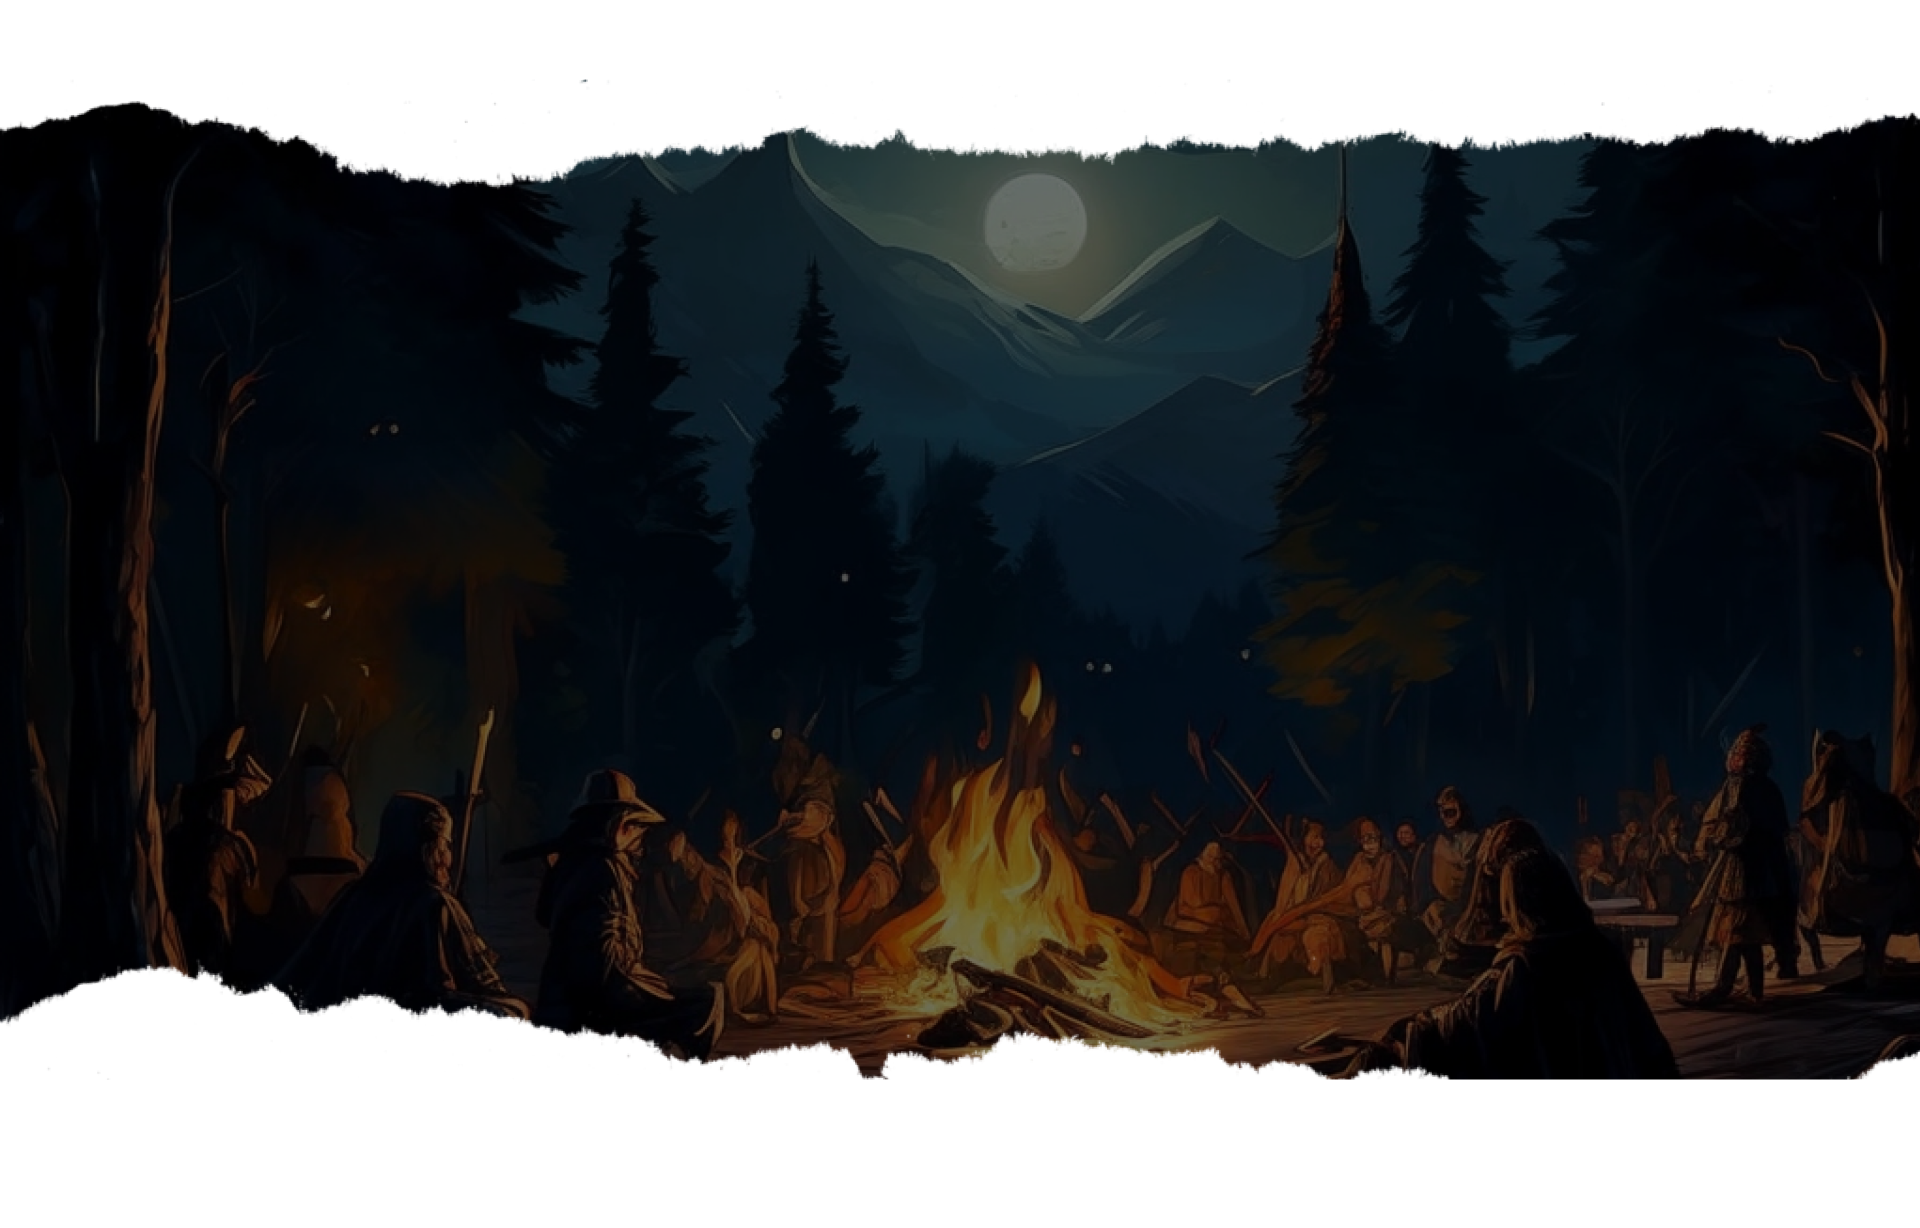
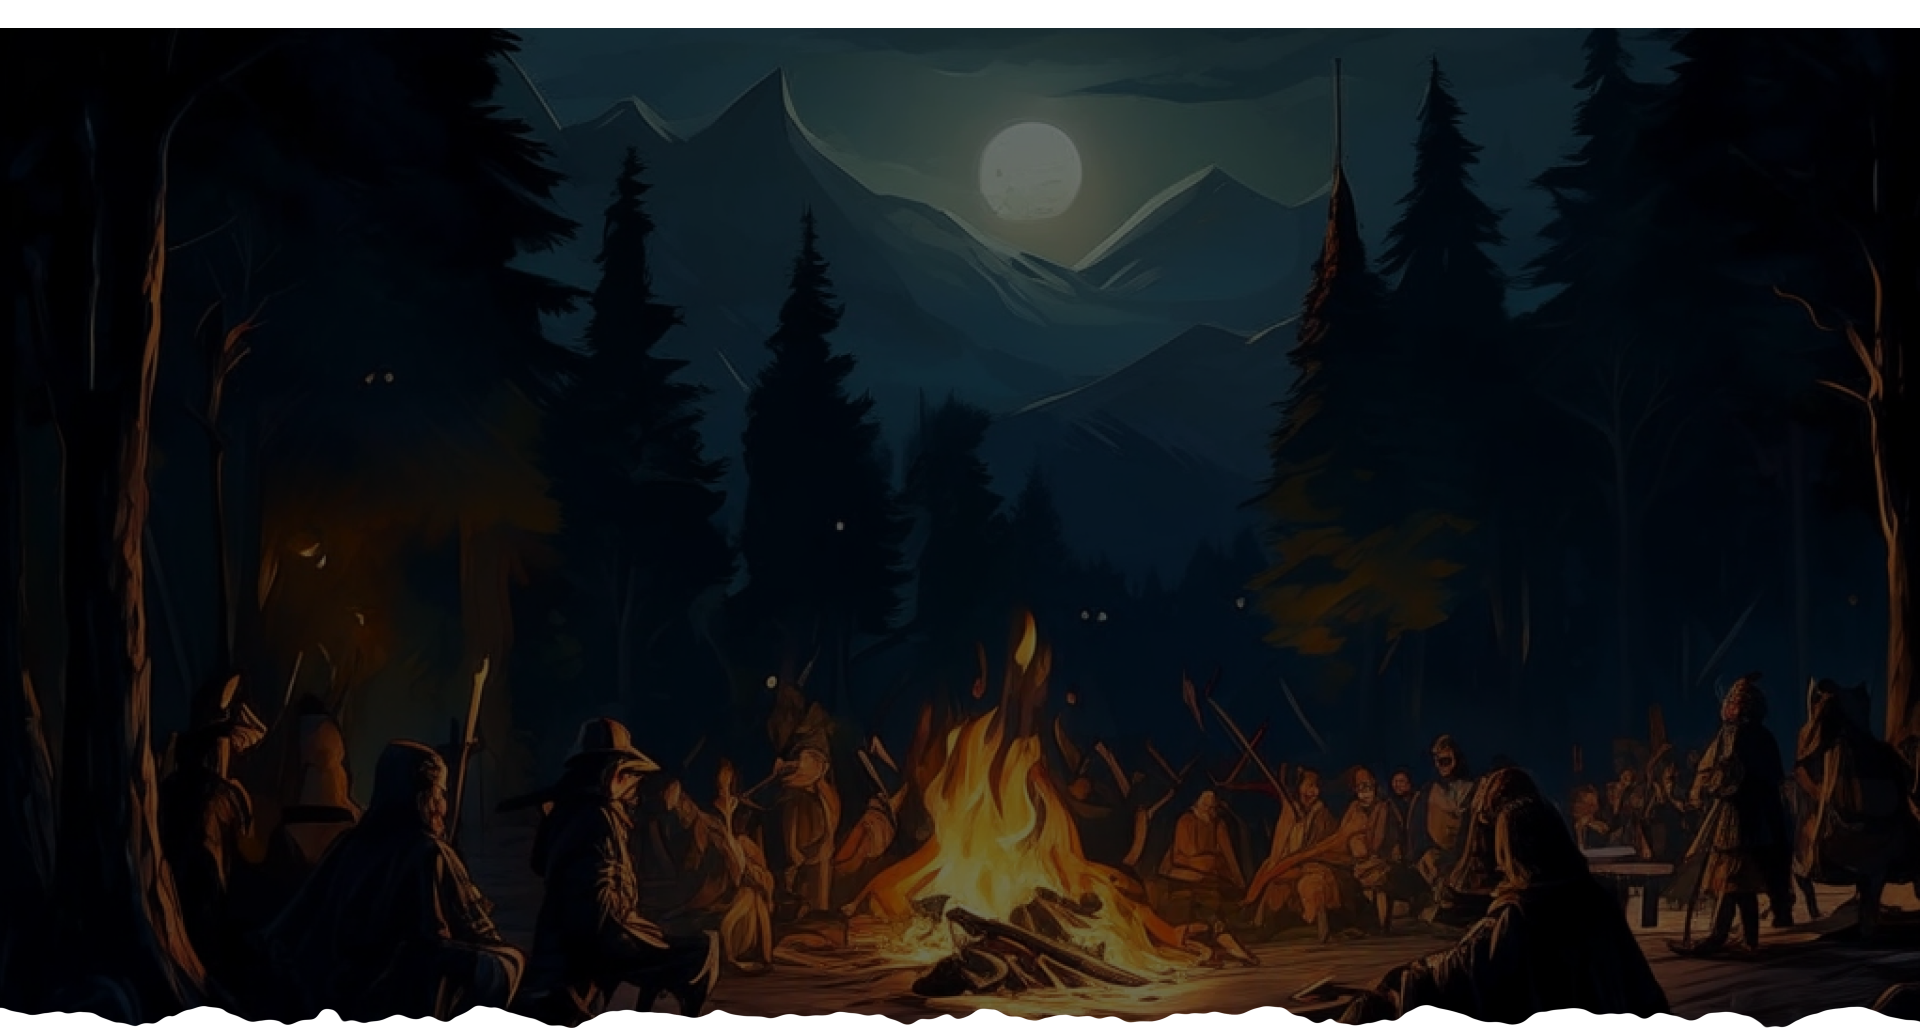
Если 2

diff --git a/src/pages/SchedulePage.tsx b/src/pages/SchedulePage.tsx
@@ -2,6 +2,8 @@ import { useState, useEffect } from 'react'
 import { useAuth } from '../context/AuthContext'
 import Parkur from '../assets/svg/parkur.svg'
 import Border from '../assets/svg/texturedBorder.svg'
+import Border2 from '../assets/svg/Rectangle_13.svg'
+import Border3 from '../assets/svg/numb.svg'
 import Event1 from '../assets/img/Mask_group.png'
 import Event2 from '../assets/img/Mask_group2.png'
 import btnFrame from "../assets/svg/Rectangle_9.svg";
@@ -173,49 +175,93 @@ export default function SchedulePage() {
     <div className="w-full min-h-screen bg-[#2D282A] text-white font-['Unbounded'] flex flex-col items-center pb-[200px]">
 
       {/* ===== Заголовок ===== */}
-      <h1 className="mt-[120px] text-[96px] font-['Zero_Cool'] text-[#F5C78B] text-center">
+      <h1 className="mt-[120px] text-[96px] font-h1 text-[#F5C78B] text-center">
         РАСПИСАНИЕ
       </h1>
+      <div className="flex items-center gap-[40px]">
 
-      {/* ===== Количество бесплатных посещений ===== */}
-      <div className="mt-[40px] flex items-center gap-[24px]">
-        <span className="text-[20px]">Кол-во бесплатных посещений:</span>
-        <div className="w-[70px] h-[69px] bg-[#F5C78B] flex justify-center items-center rounded-[5px] border-2 border-[#F4C884]">
-          <span className="text-[20px] text-black font-h1">{subscriptionCount}</span>
-        </div>
-      </div>
+{/* ===== Количество бесплатных посещений ===== */}
+<div className="flex items-center gap-[20px]">
+  <span className="text-[24px] text-white">Кол-во бесплатных посещений:</span>
 
-      {/* ===== Навигация по неделе ===== */}
-      <div className="mt-[40px] flex flex-col items-center gap-[24px]">
-        <div className="flex gap-[8px]">
-          {weekDates.map((date, i) => {
-            const isActive = date.toDateString() === selectedDate.toDateString()
-            const dayName = date.toLocaleDateString('ru-RU', { weekday: 'short' })
+  {/* Рваный квадрат числа */}
+  <div className="
+    w-[95px] h-[85px] flex justify-center items-center
+  "
+  style={{
+    backgroundImage: `url(${Border3})`,
+    backgroundSize: '95px 85px',
+    backgroundRepeat: 'no-repeat',
+    backgroundPosition: 'center',
+  }}
+  >
+    <span className="text-[28px] text-black font-h1 leading-none">
+      {subscriptionCount}
+    </span>
+  </div>
+</div>
 
-            return (
-              <button
-                key={i}
-                onClick={() => handleSelectDate(date)}
-                className={`w-[98px] h-[85px] flex flex-col justify-center items-center rounded-[5px] border-2 border-[#F4C884] transition-all ${isActive ? 'bg-[#F5C78B] text-black' : 'text-white hover:bg-[#F4C884]/20'
-                  }`}
-              >
-                <span className="text-[24px] font-h1">{date.getDate()}</span>
-                <span className="text-[16px] uppercase">{dayName}</span>
-              </button>
-            )
-          })}
-        </div>
 
-        <div className="flex items-center gap-[16px]">
-          <button onClick={handlePrevWeek} className="text-[24px] text-[#F4C884]">&lt;</button>
-          <span className="text-[20px] text-[#F4C884]">
-            {formatDate(weekDates[0])} - {formatDate(weekDates[6])}
+{/* ===== Навигация по неделе ===== */}
+<div className="flex items-center gap-[28px]">
+
+  {/* Дни недели */}
+  <div className="flex gap-[18px]">
+
+    {weekDates.map((date, i) => {
+      const isActive = date.toDateString() === selectedDate.toDateString()
+      const dayName = date.toLocaleDateString('ru-RU', { weekday: 'short' })
+
+      return (
+        <button
+          key={i}
+          onClick={() => handleSelectDate(date)}
+          className={`
+            w-[95px] h-[85px] flex flex-col justify-center items-center relative
+            transition-all
+            ${isActive
+              ? ' text-black'
+              : 'text-white '}
+          `
+        }
+        style={{
+          backgroundImage: `url(${Border2})`,
+          backgroundSize: '95px 85px',
+          
+          backgroundRepeat: 'no-repeat',
+          backgroundPosition: 'center',
+        }}
+        >
+
+          {/* Число */}
+          <span className="text-[26px] font-h1 leading-none">
+            {date.getDate()}
           </span>
-          <button onClick={handleNextWeek} className="text-[24px] text-[#F4C884]">&gt;</button>
-        </div>
-      </div>
 
-      {/* ===== Карточки занятий ===== */}
+          {/* День недели */}
+          <span className="text-[15px] mt-[3px] uppercase">{dayName}</span>
+        </button>
+      )
+    })}
+
+  </div>
+
+
+  {/* Навигация стрелками */}
+  <div className="flex items-center gap-[16px] text-[#F4C884]">
+    <button onClick={handlePrevWeek} className="text-[30px]">&lt;</button>
+
+    <span className="text-[20px]">
+      {formatDate(weekDates[0])} - {formatDate(weekDates[6])}
+    </span>
+
+    <button onClick={handleNextWeek} className="text-[30px]">&gt;</button>
+  </div>
+
+</div>
+
+</div>
+{/* ===== Карточки занятий ===== */}
       <div aria-hidden className="mt-[60px] w-full h-full max-w-[1600px] flex justify-center gap-[40px]">
         {filteredSessions.map(session => {
           const isEnrolled = enrolledSessions.includes(session.id)

diff --git a/src/components/mainpageComponents/TeamCard.tsx b/src/components/mainpageComponents/TeamCard.tsx
@@ -12,7 +12,7 @@ type CardProps = {
 export default function TeamCard({ Image, name, position, audiosrc, onPlayChange }: CardProps) {
   return (
     <div className="p-6 w-[590px] flex flex-col items-center text-customwhite">
-      <div className="relative w-[590px] h-[590px] rounded-full border-2 border-customyellow flex items-center justify-center p-6 mb-6">
+      <div className="relative w-[590px] h-[590px] rounded-full flex items-center justify-center p-6 mb-6">
         <div
           aria-hidden="true"
           className="pointer-events-none absolute inset-0 z-20"
@@ -22,14 +22,14 @@ export default function TeamCard({ Image, name, position, audiosrc, onPlayChange
             backgroundRepeat: 'no-repeat',
           }}
         />
-        <div className="absolute inset-0 z-10 rounded-full bg-gradient-to-br from-primary-800/20 to-transparent" />
+        <div className="absolute inset-0 z-10 rounded-full " />
         <div className="relative z-30 w-[537px] h-[537px] rounded-full overflow-hidden">
           <img src={Image} alt={name} className="object-cover w-full h-full" />
         </div>
       </div>
 
       <div className="text-p font-p text-center">{position}</div>
-      <div className="font-h1 text-h2 font-h2 text-center">{name}</div>
+      <div className="text-h2 font-h2 text-center">{name}</div>
       <AudioPlayer src={audiosrc} onPlayChange={onPlayChange} />
     </div>
   )

diff --git a/src/components/mainpageComponents/PartnerCard.tsx b/src/components/mainpageComponents/PartnerCard.tsx
@@ -7,7 +7,7 @@ type PartnerCardProps = {
 export default function PartnerCard({ name, image, texturedRound }: PartnerCardProps) {
   return (
     <div className="relative flex flex-col items-center">
-      <div className="relative w-64 h-64 rounded-full border border-primary-500/50 overflow-hidden">
+      <div className="relative w-64 h-64 rounded-full overflow-hidden">
         <div
           aria-hidden="true"
           className="pointer-events-none absolute inset-0 z-20"
@@ -17,12 +17,12 @@ export default function PartnerCard({ name, image, texturedRound }: PartnerCardP
             backgroundRepeat: 'no-repeat',
           }}
         />
-        <div className="absolute inset-0 z-10 rounded-full bg-gradient-to-br from-primary-800/20 to-transparent" />
+        <div className="absolute inset-0 z-10 rounded-full " />
         <div className="relative z-30 flex h-full w-full items-center justify-center">
           <img
             src={image}
             alt={name}
-            className="w-48 h-48 rounded-full object-cover border border-primary-400/50"
+            className="w-48 h-48 rounded-full object-cover"
           />
         </div>
       </div>

diff --git a/src/components/mainpageComponents/NewsCard.tsx b/src/components/mainpageComponents/NewsCard.tsx
@@ -15,13 +15,12 @@ export default function NewsCard({
   content,
   imageSrc,
   imageAlt,
-  bgColorClass,
   transitionDelay,
   isRevealed,
 }: NewsCardProps) {
   return (
     <div
-      className={`relative ${bgColorClass} border border-primary-500/50 rounded-2xl overflow-hidden group transition-all duration-700 ease-out transform hover:-translate-y-1 hover:border-primary-400/70 ${
+      className={`relative  rounded-2xl overflow-hidden group transition-all duration-700 ease-out transform hover:-translate-y-1 ${
         isRevealed ? 'opacity-100 translate-y-0' : 'opacity-0 translate-y-4'
       }`}
       style={{ transitionDelay: `${transitionDelay}ms` }}
